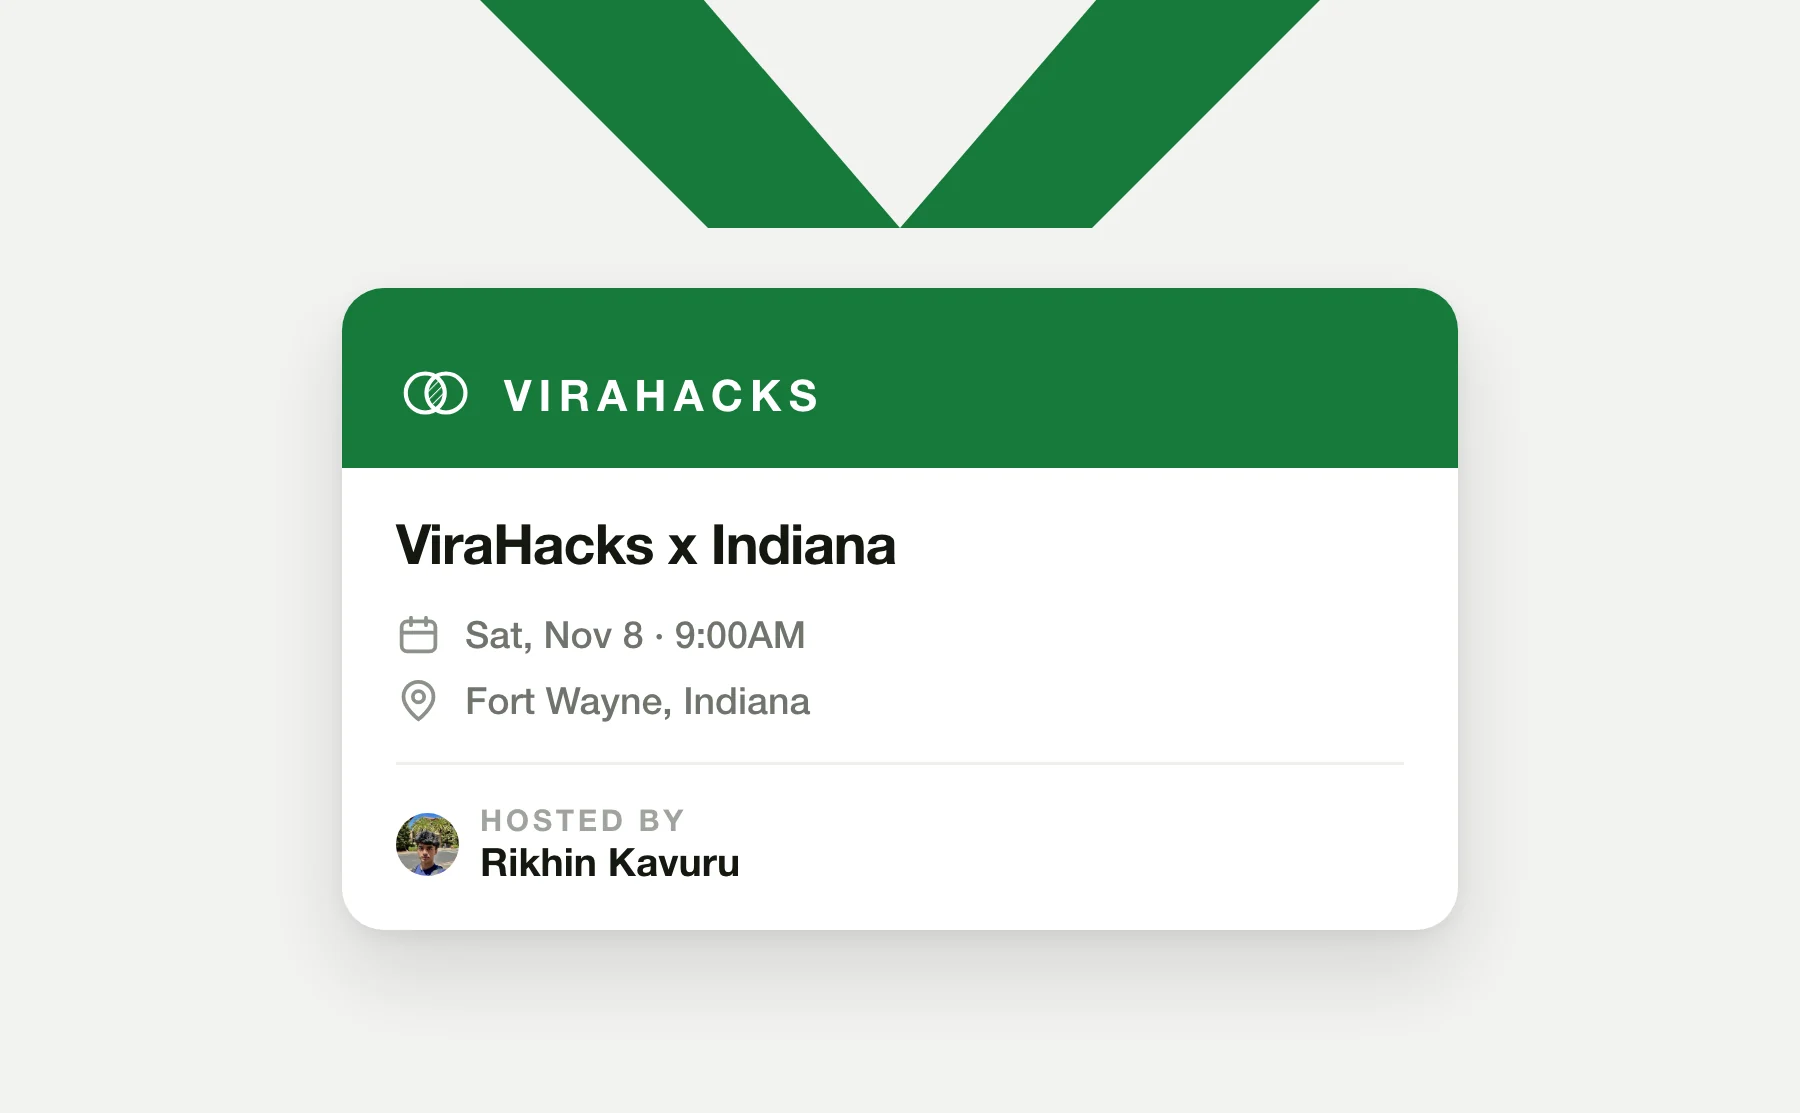
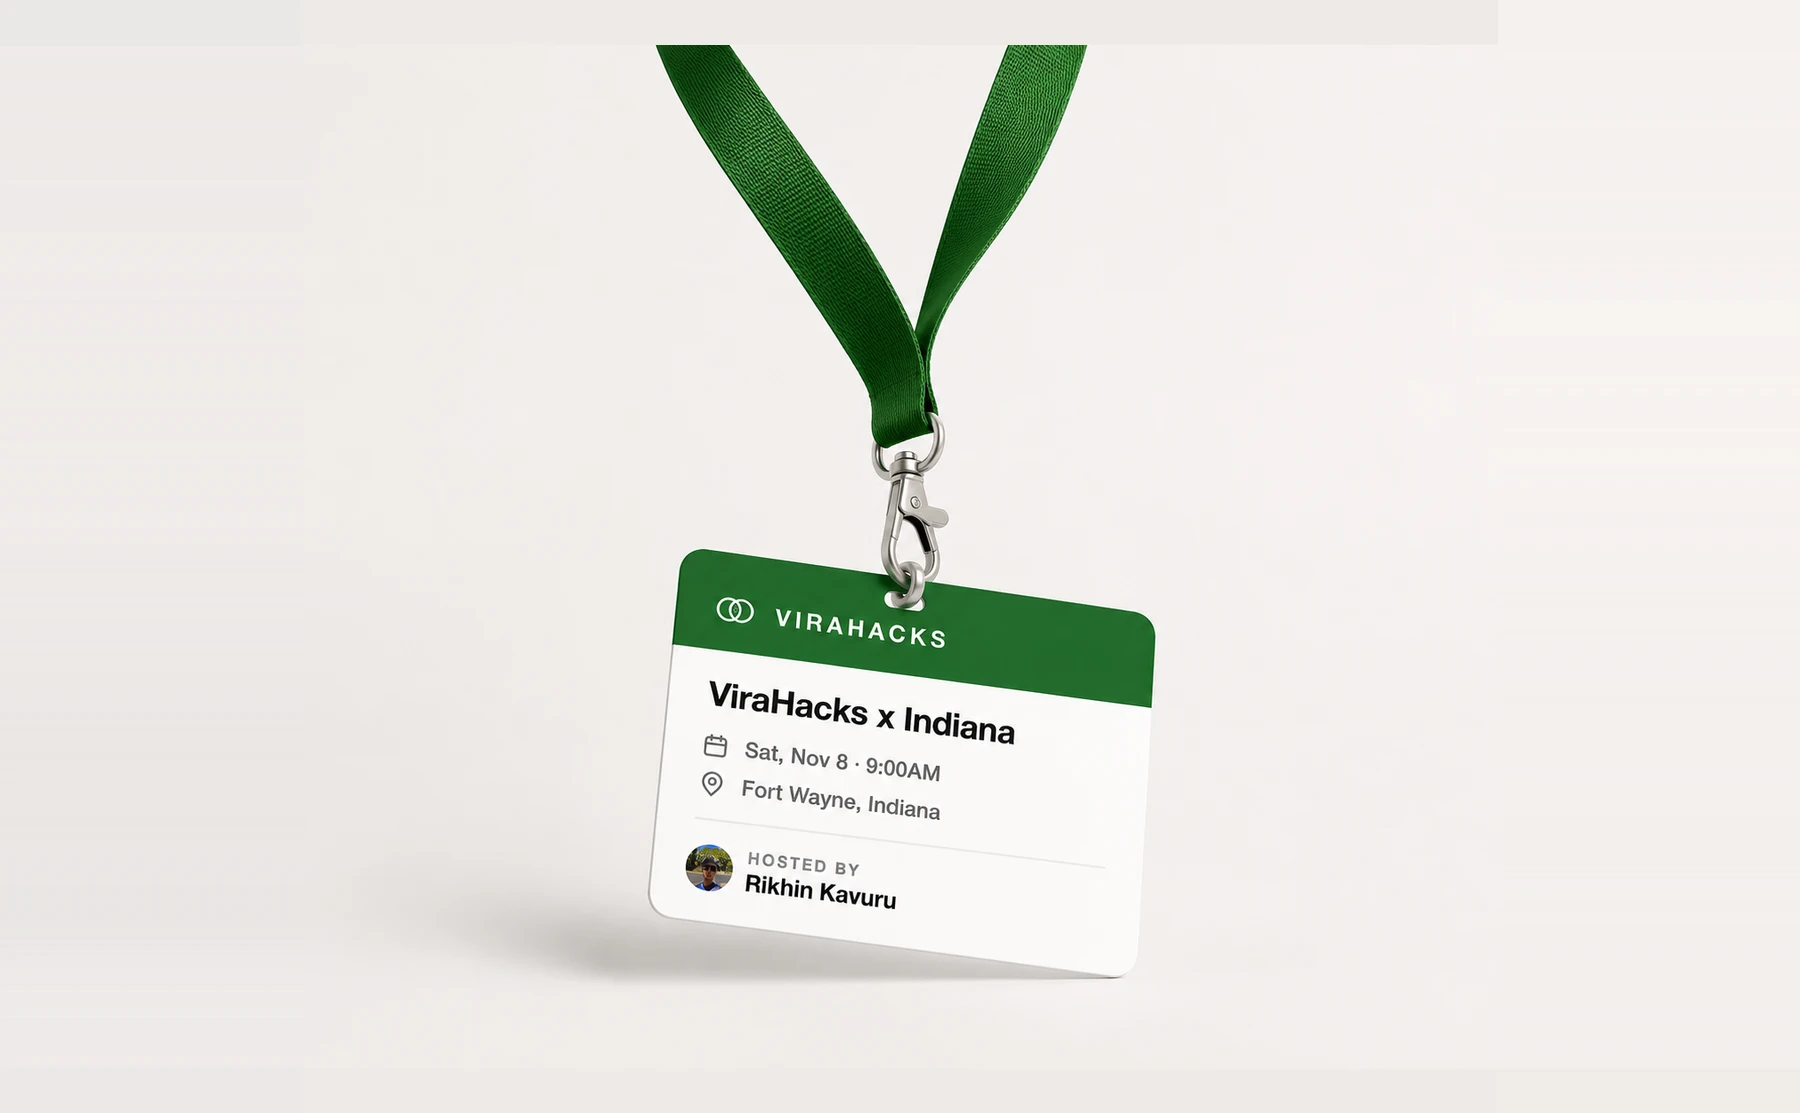
Use the photographed lanyard mockup for the ViraHacks card
Replaces the drawn V-strap illustration with the supplied render.

Fitting it took some care. The source is close to square, but the slot runs
1.36 to 2.0 wide as columns grow, so object-cover would have eaten either the
badge or the strap. The mockup is composed onto a 1800x1113 canvas with its own
edge rows and columns replicated outward, which continues the studio gradient
instead of banding against a flat fill, and positioned so the badge sits inside
the roughly 9% that cover can trim. Checked at both hover extremes.

Card background follows to #eeebe8, sampled from the render, so the lightbox
panel meets the artwork without a seam.

Changed region(s): [[0.1867, 0.0, 0.8089, 0.8859]]

diff --git a/lib/content.ts b/lib/content.ts
@@ -268,7 +268,7 @@ export const projects: Project[] = [
     tags: ["Community", "Healthcare", "1,100+ students"],
     blurb:
       "A hackathon network for high schoolers: real venues, mentors, judges, and healthcare problems worth solving, all run by students.",
-    cardBg: "#f2f3f1",
+    cardBg: "#eeebe8",
   },
   {
     slug: "telo",
